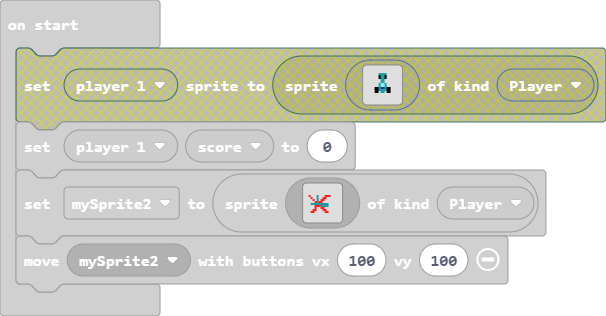
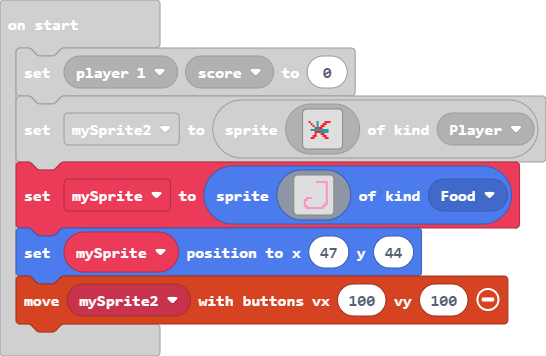
Update main.blocks, main.ts, images.g.jres, images.g.ts

diff --git a/images.g.ts b/images.g.ts
@@ -117,25 +117,6 @@ namespace myImages {
 . . . . 3 7 3 3 3 8 . . 7 . 7 7 
 . 8 8 8 8 8 8 . . . . 8 . 7 7 . 
 `;
-            case "image7":
-            case "myImage3":return img`
-. . . . . . . . . . . . . . . . 
-. . . . . . . . . 3 3 3 3 3 3 . 
-. . . . . . . . . . . . . . 3 . 
-. . . . . . . . . . . . . . 3 . 
-. . . . . . . . . . . . . . 3 . 
-. . . . . . . . . . . . . . 3 . 
-. . . . . . . . . . . . . . 3 . 
-. . . . . . . . . . . . . . 3 . 
-. . . . . . . . . . . . . . 3 . 
-. . . . 3 3 3 . . . . . . . 3 . 
-. . . 3 3 . . . . . . . . . 3 . 
-. . . 3 . . . . . . . . . . 3 . 
-. . . 3 . . . . . . . . . 3 3 . 
-. . . 3 3 . . . . . . . 3 3 . . 
-. . . . 3 3 3 3 3 3 3 3 3 . . . 
-. . . . . . . . . . . . . . . . 
-`;
             case "image8":
             case "myImage4":return img`
 . . . . . . . . . . . . . . . . 
@@ -153,6 +134,25 @@ namespace myImages {
 . 3 3 . . . . . . . . 3 . . . . 
 . . . 3 3 . . . . 3 3 . . . . . 
 . . . . . 3 3 3 3 . . . . . . . 
+. . . . . . . . . . . . . . . . 
+`;
+            case "image7":
+            case "J":return img`
+. . . . . . . . . . . . . . . . 
+. . . . . . . . . 3 3 3 3 3 3 . 
+. . . . . . . . . . . . . . 3 . 
+. . . . . . . . . . . . . . 3 . 
+. . . . . . . . . . . . . . 3 . 
+. . . . . . . . . . . . . . 3 . 
+. . . . . . . . . . . . . . 3 . 
+. . . . . . . . . . . . . . 3 . 
+. . . . . . . . . . . . . . 3 . 
+. . . . 3 3 3 . . . . . . . 3 . 
+. . . 3 3 . . . . . . . . . 3 . 
+. . . 3 . . . . . . . . . . 3 . 
+. . . 3 . . . . . . . . . 3 3 . 
+. . . 3 3 . . . . . . . 3 3 . . 
+. . . . 3 3 3 3 3 3 3 3 3 . . . 
 . . . . . . . . . . . . . . . . 
 `;
         }

diff --git a/main.ts b/main.ts
@@ -1,3 +1,5 @@
 mp.setPlayerState(mp.playerSelector(mp.PlayerNumber.One), MultiplayerState.score, 0)
 let mySprite2 = sprites.create(assets.image`testsprite`, SpriteKind.Player)
+let mySprite = sprites.create(assets.image`J`, SpriteKind.Food)
+mySprite.setPosition(47, 44)
 controller.moveSprite(mySprite2, 100, 100)
